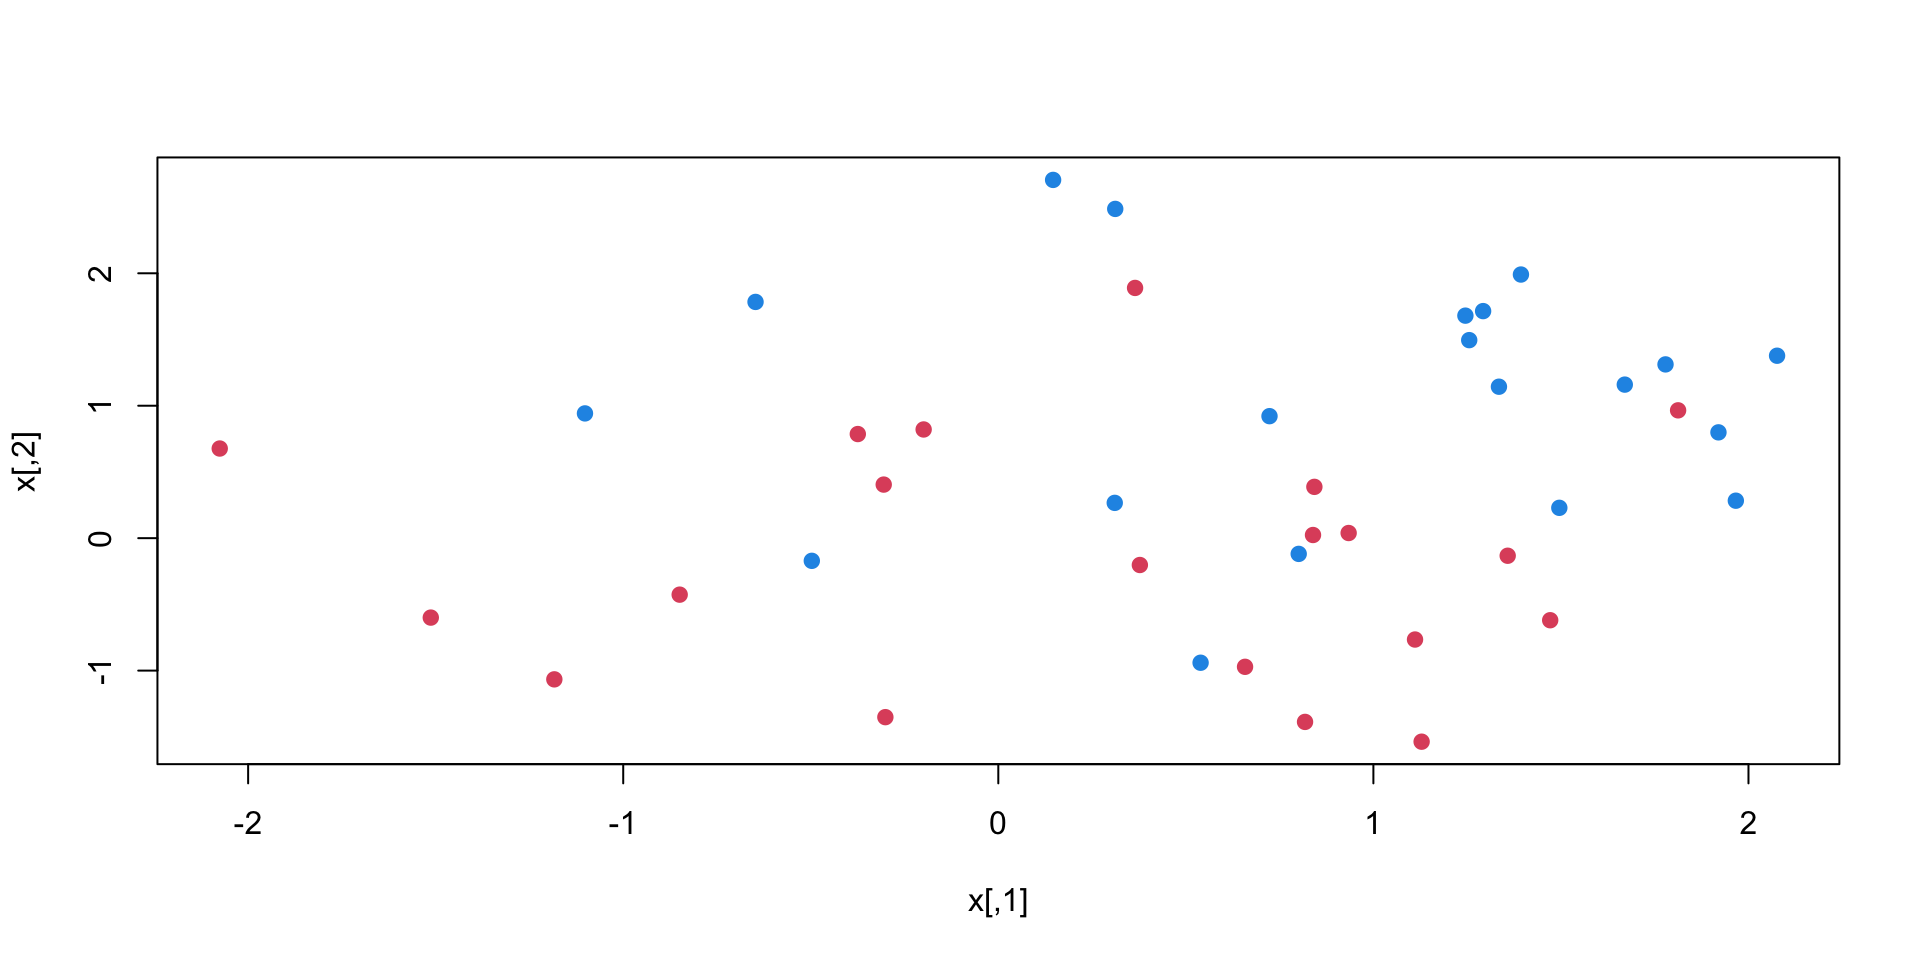
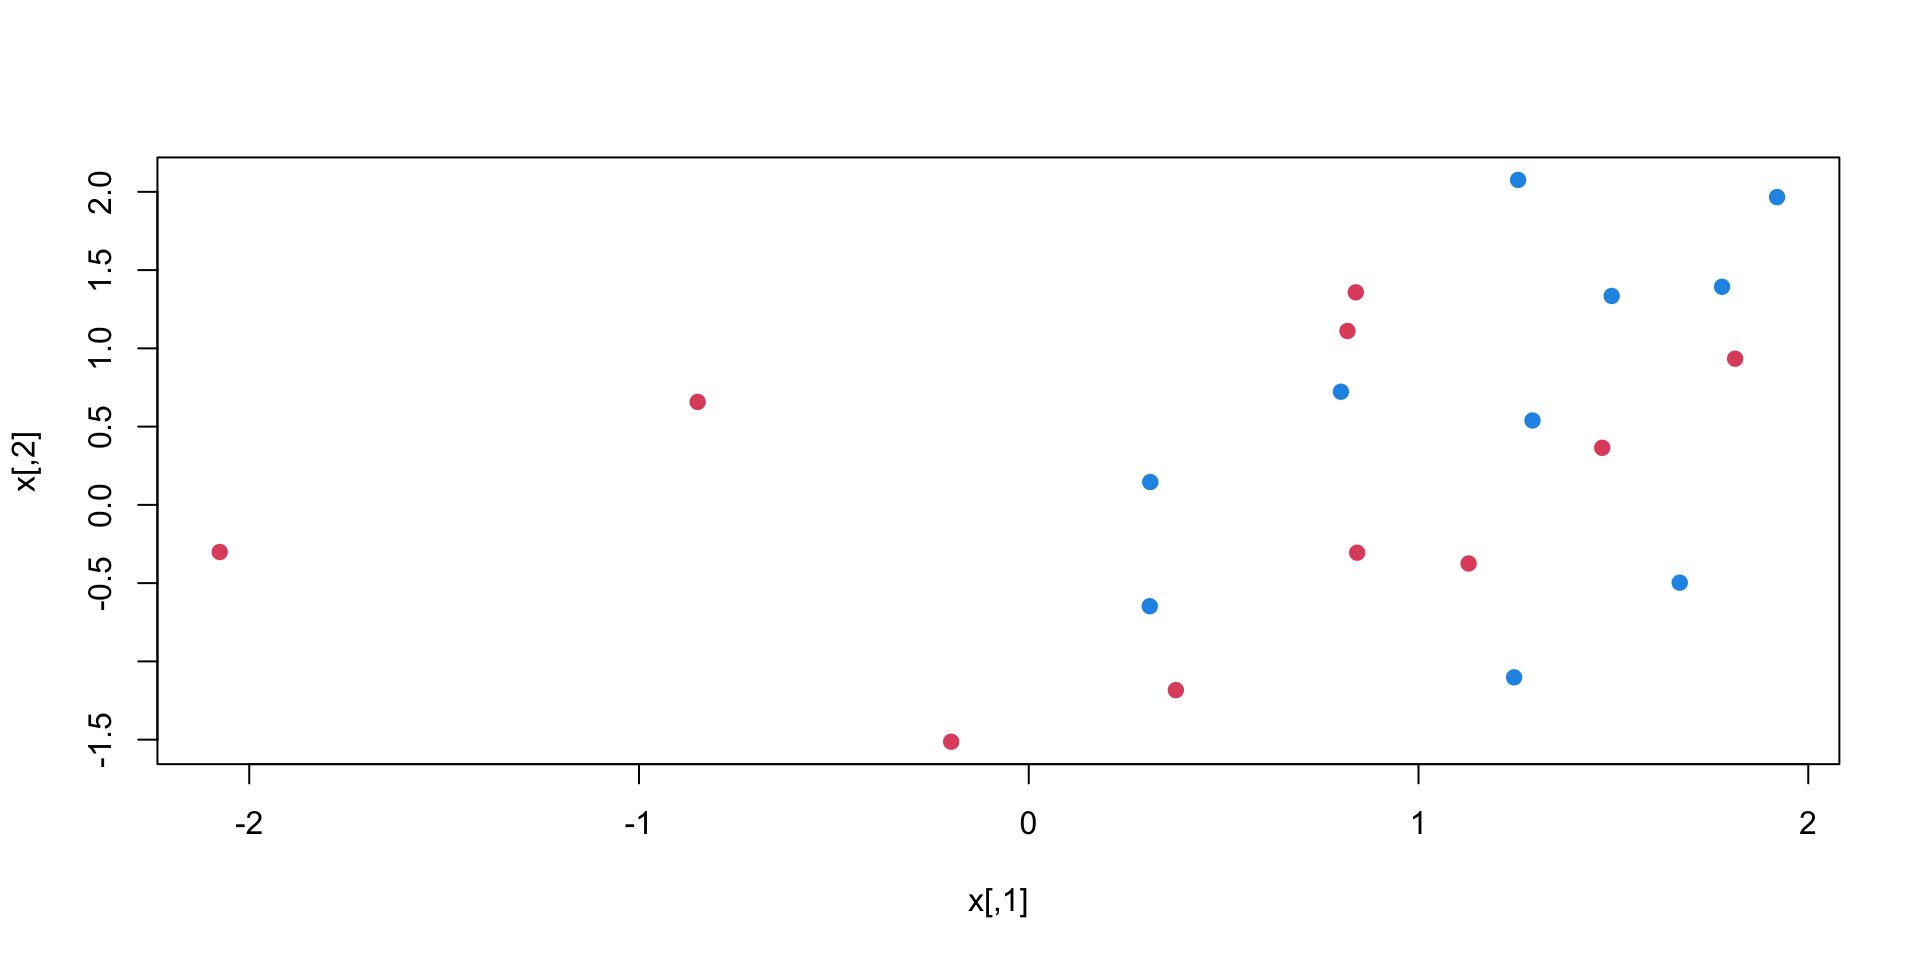
a

diff --git a/slides.html b/slides.html
@@ -504,23 +504,23 @@ Parameters:
  SVM-Kernel:  linear 
        cost:  10 
 
-Number of Support Vectors:  23</code></pre>
+Number of Support Vectors:  17</code></pre>
 </div>
 <div class="cell-output-display">
 <p><img data-src="slides_files/figure-revealjs/unnamed-chunk-1-2.png" width="960"></p>
 </div>
 <div class="cell-output cell-output-stdout">
 <pre><code>          X1        X2
-1  -2.075718 -1.536734
-2  -2.035796 -1.536734
-3  -1.995873 -1.536734
-4  -1.955950 -1.536734
-5  -1.916028 -1.536734
-6  -1.876105 -1.536734
-7  -1.836183 -1.536734
-8  -1.796260 -1.536734
-9  -1.756337 -1.536734
-10 -1.716415 -1.536734</code></pre>
+1  -2.075718 -1.513035
+2  -2.037298 -1.513035
+3  -1.998878 -1.513035
+4  -1.960458 -1.513035
+5  -1.922038 -1.513035
+6  -1.883618 -1.513035
+7  -1.845198 -1.513035
+8  -1.806778 -1.513035
+9  -1.768358 -1.513035
+10 -1.729938 -1.513035</code></pre>
 </div>
 <div class="cell-output-display">
 <p><img data-src="slides_files/figure-revealjs/unnamed-chunk-1-3.png" width="960"></p>
